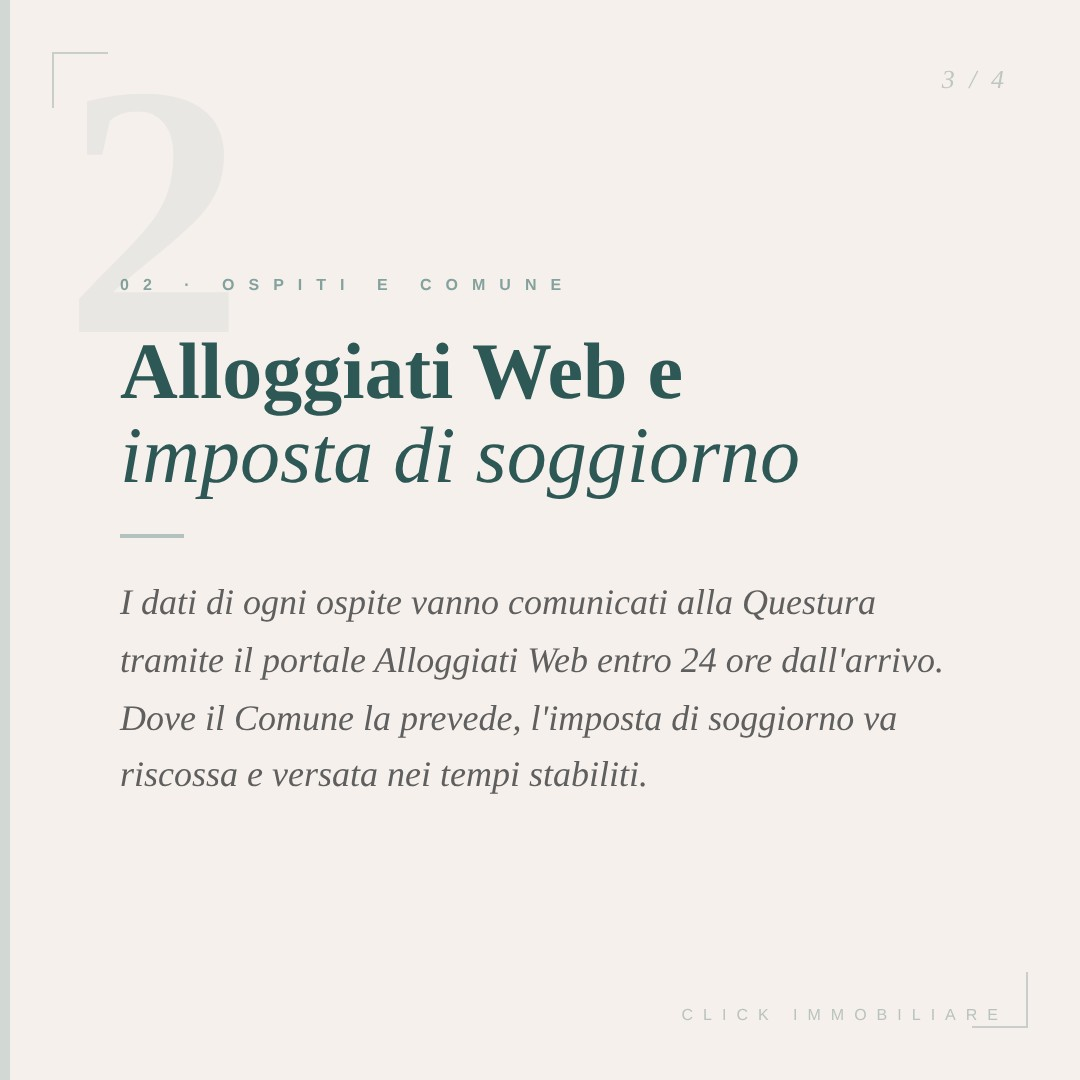
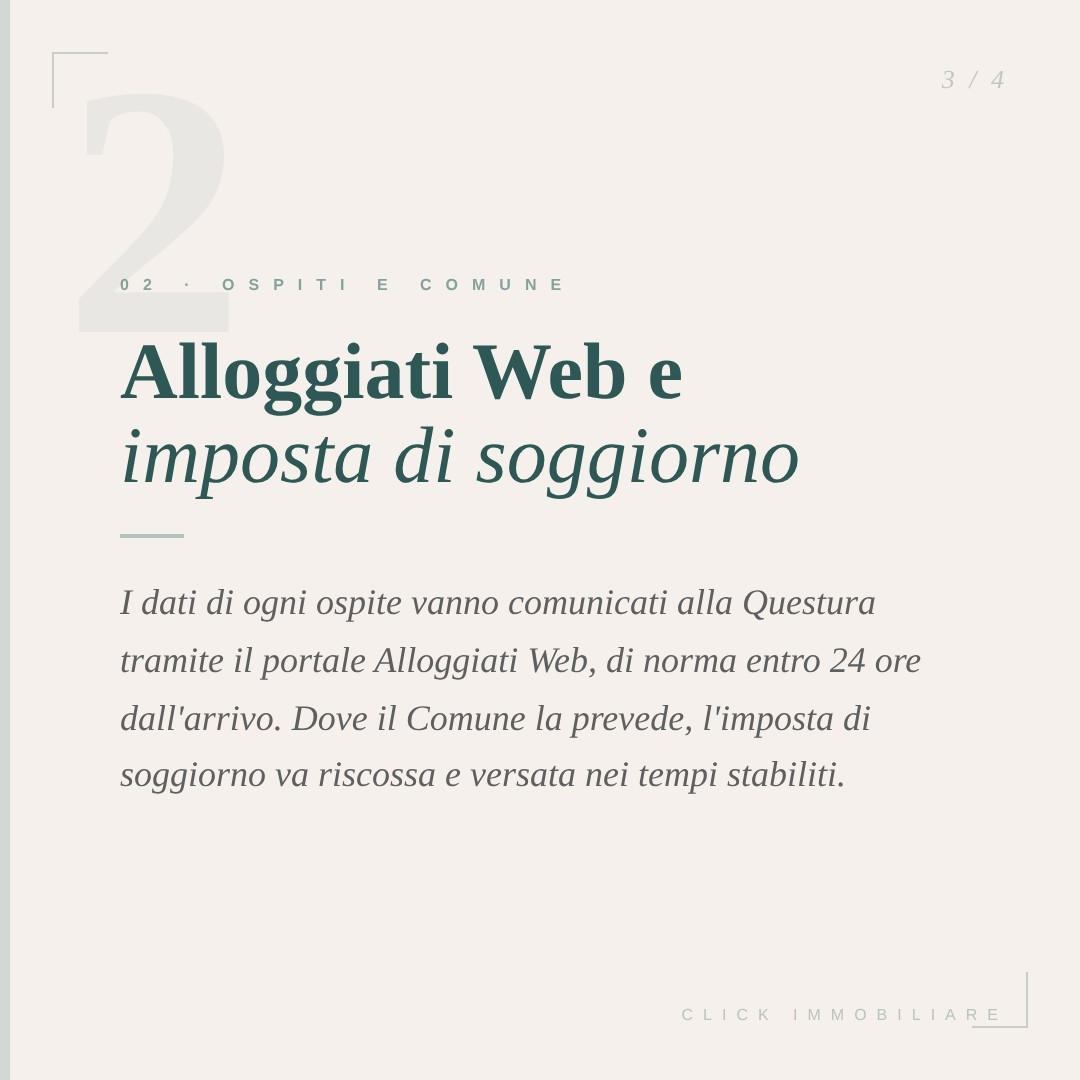
Correzioni verificate: transitorio documentato, Alloggiati Web di norma entro 24 ore
Claude-Session: https://claude.ai/code/session_01LDa1zSpu8sfJksQtvcLFKV

Changed region(s): [[0.0917, 0.5806, 0.8556, 0.7333]]

diff --git a/blocchi/2026-11-05_grafiche.html b/blocchi/2026-11-05_grafiche.html
@@ -170,7 +170,7 @@
         <div class="tag">02 · Affitto transitorio</div>
         <div class="title">Entrate stabili,<br><em>meno pensieri</em></div>
         <div class="rule"></div>
-        <div class="body">Contratti da 1 a 18 mesi, legati a un'esigenza temporanea del proprietario o dell'inquilino indicata nel contratto, come un trasferimento o un incarico di lavoro. Offre entrate più regolari e una gestione più leggera.</div>
+        <div class="body">Contratti da 1 a 18 mesi, legati a un'esigenza temporanea del proprietario o dell'inquilino, indicata nel contratto e documentata, come un trasferimento di lavoro. Offre entrate più regolari e una gestione più leggera.</div>
       </div>
       <div class="slide-counter on-dark">3 / 4</div>
       <div class="brand-tag on-dark">Click Immobiliare</div>
@@ -237,7 +237,7 @@
         <div class="tag">02 · Ospiti e Comune</div>
         <div class="title">Alloggiati Web e<br><em>imposta di soggiorno</em></div>
         <div class="rule"></div>
-        <div class="body">I dati di ogni ospite vanno comunicati alla Questura tramite il portale Alloggiati Web entro 24 ore dall'arrivo. Dove il Comune la prevede, l'imposta di soggiorno va riscossa e versata nei tempi stabiliti.</div>
+        <div class="body">I dati di ogni ospite vanno comunicati alla Questura tramite il portale Alloggiati Web, di norma entro 24 ore dall'arrivo. Dove il Comune la prevede, l'imposta di soggiorno va riscossa e versata nei tempi stabiliti.</div>
       </div>
       <div class="slide-counter on-light">3 / 4</div>
       <div class="brand-tag on-light">Click Immobiliare</div>
